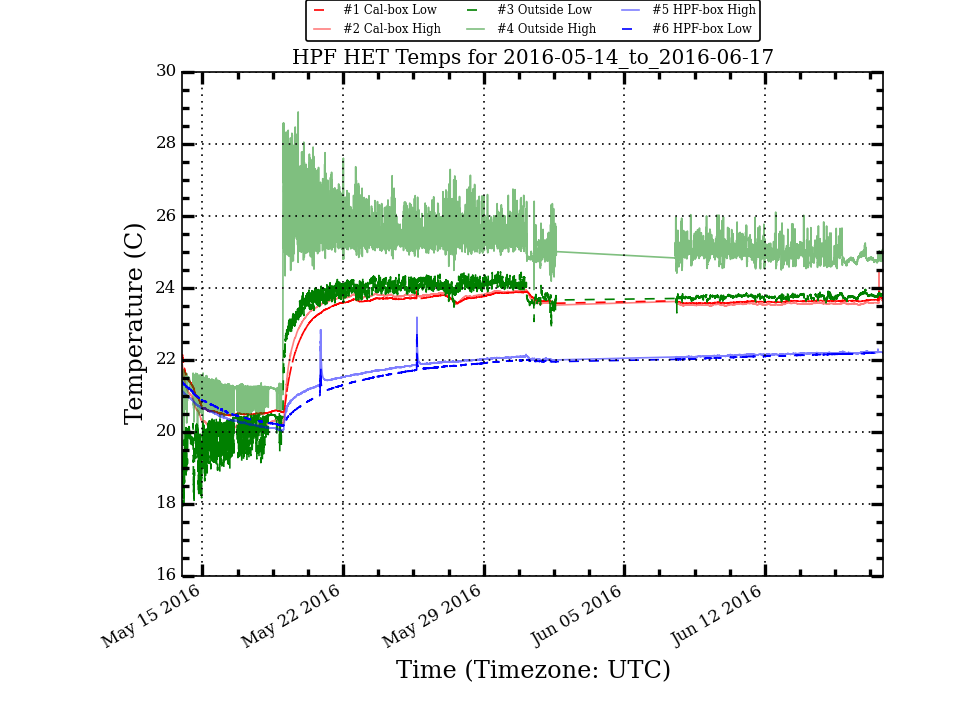
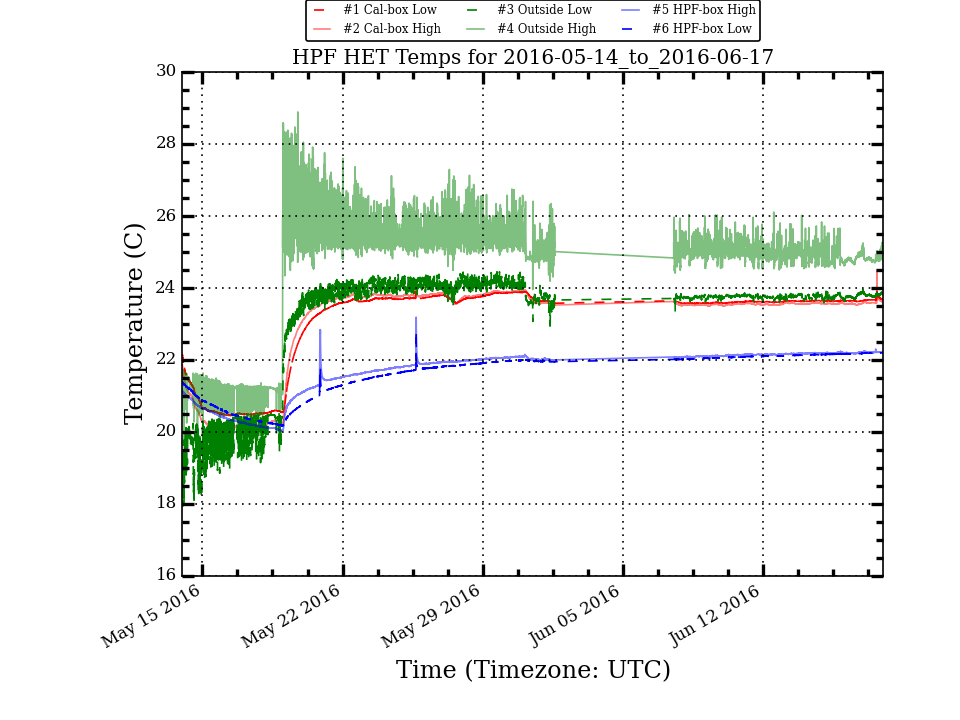
Update HPF Temp Plots

diff --git a/research/hpf_temps/plots/LakeShoreLogTotal_month_stats.html b/research/hpf_temps/plots/LakeShoreLogTotal_month_stats.html
@@ -10,8 +10,8 @@
  </TR>
  <TR>
   <TD>Cal_Low</TD>
-  <TD>23.069</TD>
-  <TD>1.165</TD>
+  <TD>23.072</TD>
+  <TD>1.163</TD>
   <TD>23.630</TD>
   <TD>24.019</TD>
   <TD>20.460</TD>
@@ -19,8 +19,8 @@
  </TR>
  <TR>
   <TD>Cal_High</TD>
-  <TD>23.032</TD>
-  <TD>1.284</TD>
+  <TD>23.035</TD>
+  <TD>1.282</TD>
   <TD>23.568</TD>
   <TD>24.494</TD>
   <TD>20.090</TD>
@@ -28,8 +28,8 @@
  </TR>
  <TR>
   <TD>Out_Low</TD>
-  <TD>23.174</TD>
-  <TD>1.488</TD>
+  <TD>23.176</TD>
+  <TD>1.486</TD>
   <TD>23.770</TD>
   <TD>24.472</TD>
   <TD>17.940</TD>
@@ -37,27 +37,27 @@
  </TR>
  <TR>
   <TD>Out_High</TD>
-  <TD>24.556</TD>
-  <TD>1.637</TD>
-  <TD>25.041</TD>
+  <TD>24.558</TD>
+  <TD>1.634</TD>
+  <TD>25.039</TD>
   <TD>28.890</TD>
   <TD>19.597</TD>
   <TD>9.293</TD>
  </TR>
  <TR>
   <TD>HPF_High</TD>
-  <TD>21.665</TD>
+  <TD>21.667</TD>
   <TD>0.663</TD>
-  <TD>21.993</TD>
+  <TD>21.995</TD>
   <TD>23.188</TD>
   <TD>20.039</TD>
   <TD>3.149</TD>
  </TR>
  <TR>
   <TD>HPF_Low</TD>
-  <TD>21.600</TD>
+  <TD>21.603</TD>
   <TD>0.614</TD>
-  <TD>21.889</TD>
+  <TD>21.892</TD>
   <TD>22.818</TD>
   <TD>20.173</TD>
   <TD>2.645</TD>

diff --git a/research/hpf_temps/plots/LakeShoreLogTotal_week_stats.html b/research/hpf_temps/plots/LakeShoreLogTotal_week_stats.html
@@ -10,16 +10,16 @@
  </TR>
  <TR>
   <TD>Cal_Low</TD>
-  <TD>23.640</TD>
-  <TD>0.027</TD>
-  <TD>23.638</TD>
+  <TD>23.641</TD>
+  <TD>0.028</TD>
+  <TD>23.639</TD>
   <TD>24.019</TD>
   <TD>23.602</TD>
   <TD>0.417</TD>
  </TR>
  <TR>
   <TD>Cal_High</TD>
-  <TD>23.570</TD>
+  <TD>23.571</TD>
   <TD>0.042</TD>
   <TD>23.566</TD>
   <TD>24.494</TD>
@@ -28,18 +28,18 @@
  </TR>
  <TR>
   <TD>Out_Low</TD>
-  <TD>23.763</TD>
+  <TD>23.765</TD>
   <TD>0.055</TD>
-  <TD>23.763</TD>
+  <TD>23.765</TD>
   <TD>23.963</TD>
   <TD>23.586</TD>
   <TD>0.377</TD>
  </TR>
  <TR>
   <TD>Out_High</TD>
-  <TD>24.884</TD>
-  <TD>0.189</TD>
-  <TD>24.851</TD>
+  <TD>24.885</TD>
+  <TD>0.188</TD>
+  <TD>24.852</TD>
   <TD>26.107</TD>
   <TD>24.499</TD>
   <TD>1.608</TD>
@@ -48,16 +48,16 @@
   <TD>HPF_High</TD>
   <TD>22.183</TD>
   <TD>0.025</TD>
-  <TD>22.185</TD>
+  <TD>22.186</TD>
   <TD>22.305</TD>
   <TD>22.132</TD>
   <TD>0.173</TD>
  </TR>
  <TR>
   <TD>HPF_Low</TD>
-  <TD>22.143</TD>
-  <TD>0.032</TD>
-  <TD>22.145</TD>
+  <TD>22.144</TD>
+  <TD>0.033</TD>
+  <TD>22.147</TD>
   <TD>22.202</TD>
   <TD>22.086</TD>
   <TD>0.116</TD>
